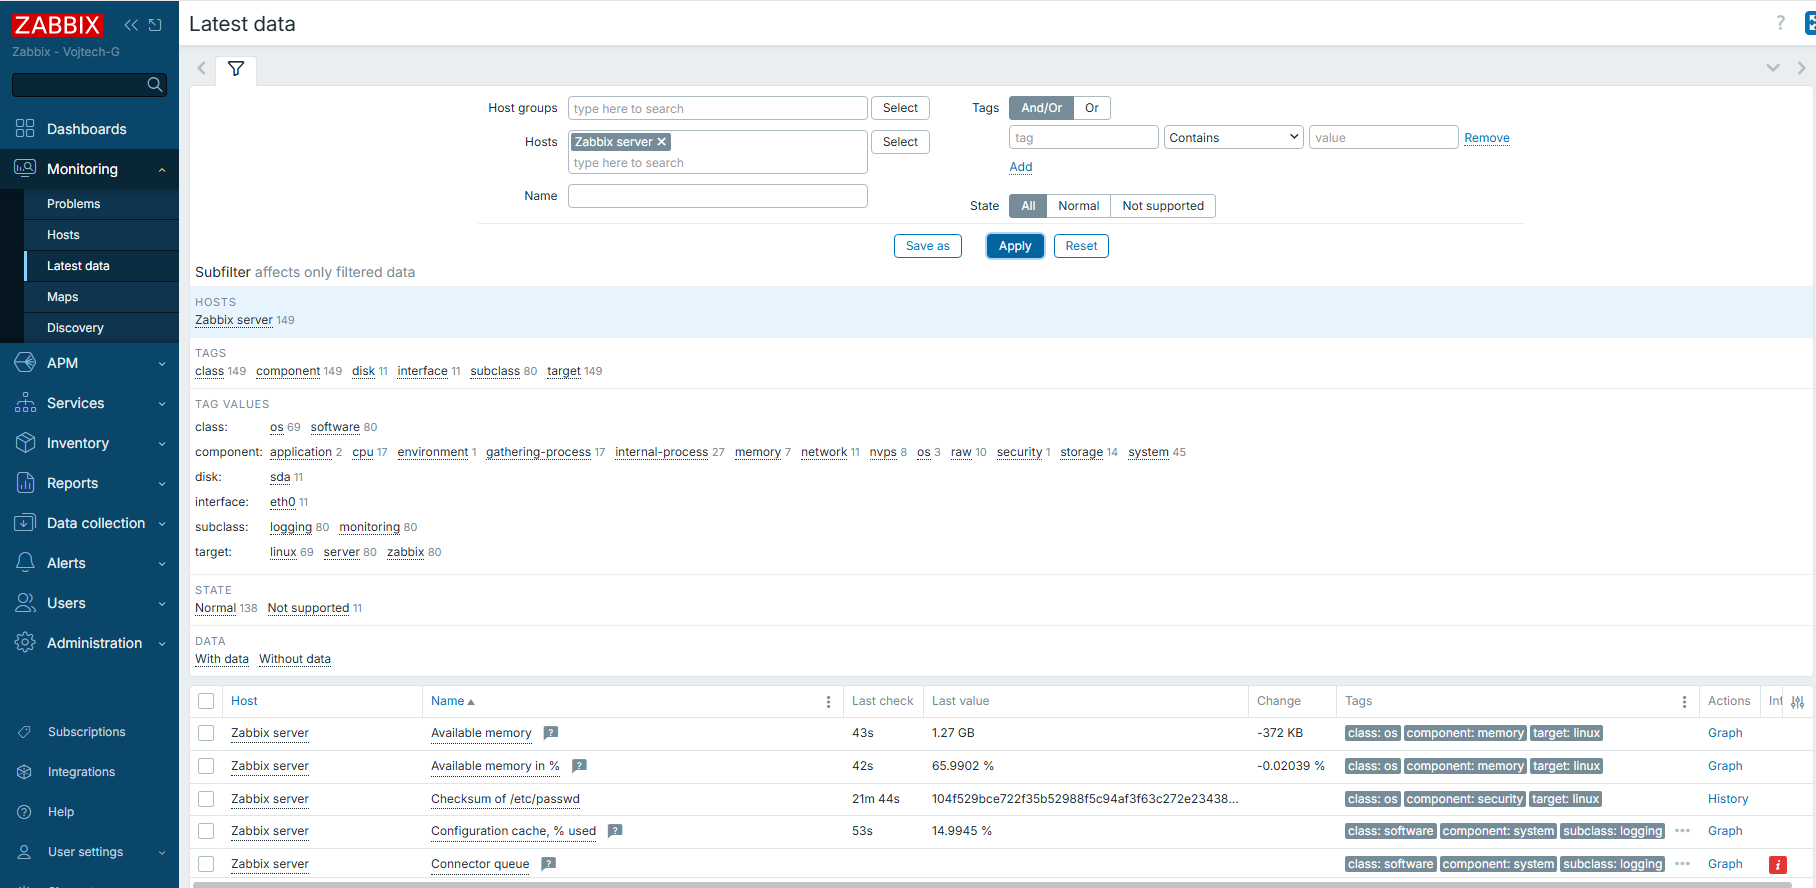
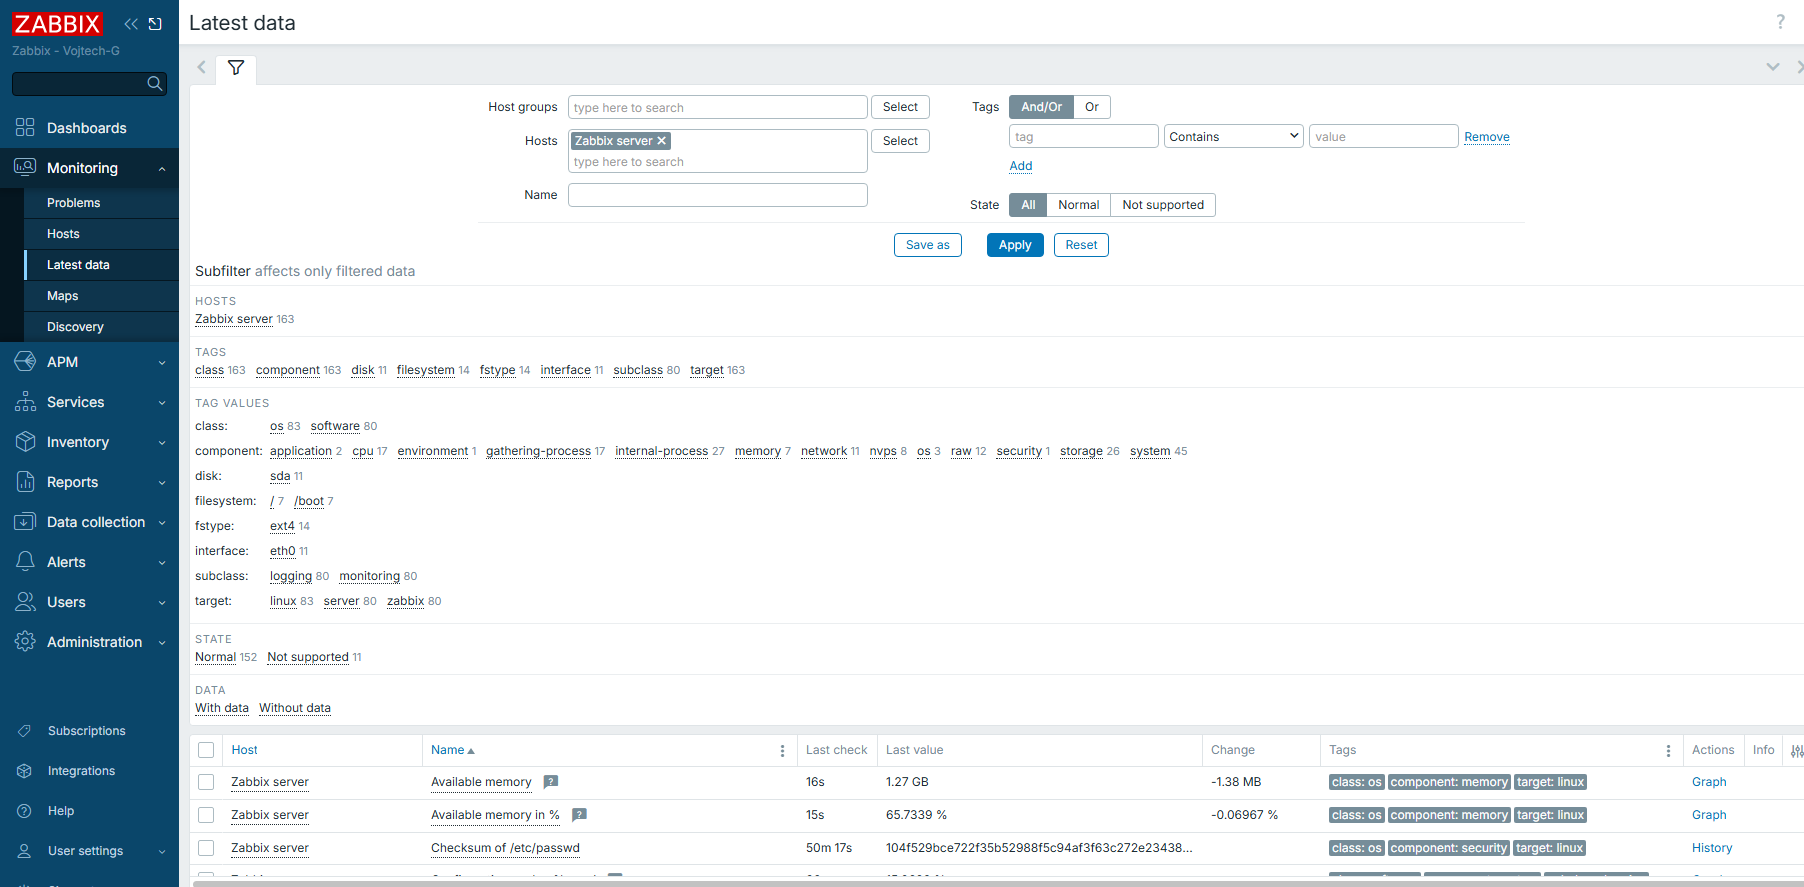
test2

diff --git a/README.md b/README.md
@@ -104,7 +104,7 @@ Všechny čtyři služby (`mariadb`, `zabbix-server`, `zabbix-agent2`, `apache2`
 
 ## Úprava exportu sposdk.cz pro Zabbix 8.0
 
-**Beze změny.** Export `sposdk.cz_hosts` se do Zabbixu 8.0.0 naimportoval bez jakékoli úpravy. Šablona *Website certificate by Zabbix agent 2* je v Zabbixu 8.0 dostupná, takže host se naimportoval se všemi 14 položkami a 2 triggery. V repozitáři je ponechán jen importovaný soubor.
+**Beze změny.** Export `sposdk.cz_hosts` se do Zabbixu 8.0.0 naimportoval bez jakékoli úpravy. Šablona *Website certificate by Zabbix agent 2* je v Zabbixu 8.0 dostupná, takže ost se naimportoval s 1 položkou, 2 triggery a discovery pravidlem. Po prvním běhu discovery vzniklo celkem 14 položek. . V repozitáři je ponechán jen importovaný soubor.
 
 ## Řešení potíží
 
